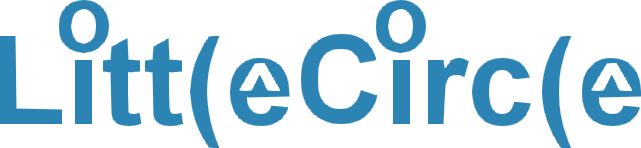
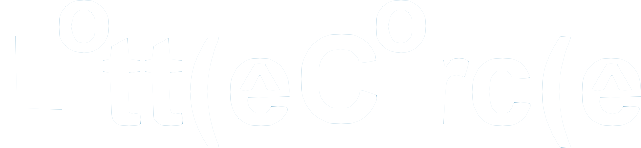
whole theme updated

Changed region(s): [[0.0, 0.0, 1.0, 1.0]]

diff --git a/public/css/style.css b/public/css/style.css
@@ -2,8 +2,10 @@ html {
     padding: 0px;
 }
 body {
-    padding: 0px;
-    font: 14px 'Duru Sans', sans-serif;
+    background-image:url('/img/bg_main.jpg');
+    background-repeat:no-repeat;
+    background-attachment:fixed;
+    background-size: cover;
 }
 .index {
     margin: 10px 0px;
@@ -15,17 +17,19 @@ body {
     height: 407px;
     width: 628px;
     margin: 0px auto;
-    background-image:url('/img/logo.png');
+    background-image:url('/img/logo.png') ;
     background-repeat: no-repeat;
+    z-index: -1;
 }
 .index .logo  img {
     padding: 220px 0px 0px 0px;
 }
 .index .fb-login-button {
-    margin-left: 170px;
+    margin-left: 170px ;
+    text-align: center;
 }
 .chatbase {
-    background-color: #B8E4EF;
+    /*background-color: #B8E4EF;*/
     position: absolute;
     height: auto;
     left: 77%;
@@ -33,14 +37,14 @@ body {
     top: 15px;
     bottom: 25px;
     display: block;
-    box-shadow: 0px 12px 12px rgba(0, 0, 0, 0.5);
+    box-shadow: 0px 15px 15px rgba(0, 0, 0, 0.5);
     padding-top:10px;
     padding-left:10px;
     padding-bottom:10px;
     padding-right:10px;
 }
 .gallerybase {
-    background-color: #2B84B3;
+    /*background-color: #2B84B3;*/
     position: absolute;
     height: auto;
     left: 2%;
@@ -48,18 +52,21 @@ body {
     top: 15px;
     bottom: 25px;
     display: block;
-    box-shadow: 0px 12px 12px rgba(0, 0, 0, 0.5);
-    padding: 10px;
+    box-shadow: 0px 15px 15px rgba(0, 0, 0, 0.5);
+    padding-top:10px;
+    padding-left:10px;
+    padding-bottom:10px;
+    padding-right:10px;
 }
 div.showcase_item {
     position: relative;
     width: 220px;
-    height: auto;
+    height: 170px;
     float: left;
     margin-left: 2%;
     margin-bottom: 2%;
     overflow: hidden;
-    top: 10px;
+    top:10px;
 }
 div.showcase_item img { z-index: 1; }
 div.showcase_item div {
@@ -134,10 +141,12 @@ div.showcase_item div.label {
     height: 22px;
     font-size: 16px;
     font-weight: normal;
-    border: 1px solid #2B84B3;
+    border: 1px solid white;
     color: white;
     cursor: pointer;
     border-radius: 3px;
+    font-family:Arial,Helvetica,sans-serif;
+    background: transparent;
 }
 #logout_button {
     width: 100px;
@@ -145,16 +154,30 @@ div.showcase_item div.label {
     height: 22px;
     font-size: 16px;
     font-weight: normal;
-    border: 1px solid #2B84B3;
+    border: 1px solid white;
     color: white;
     cursor: pointer;
     border-radius: 3px;
+    font-family:Arial,Helvetica,sans-serif;
+    background: transparent;
 }
 .chat_message {
     width:100%;
     left:5%;
     right:5%;
     height:50px;
+    background: transparent;
+    color: white;
+    font-size: 16px;
+    font-weight: normal;
+    border: 1px solid white;
+    font-family:Arial,Helvetica,sans-serif;
+}
+.chat_history{
+    font-family:Arial,Helvetica,sans-serif;
+    color: white;
+    font-size: 16px;
+    font-weight: normal;
 }
 img.add_event {
     width: 200px;
